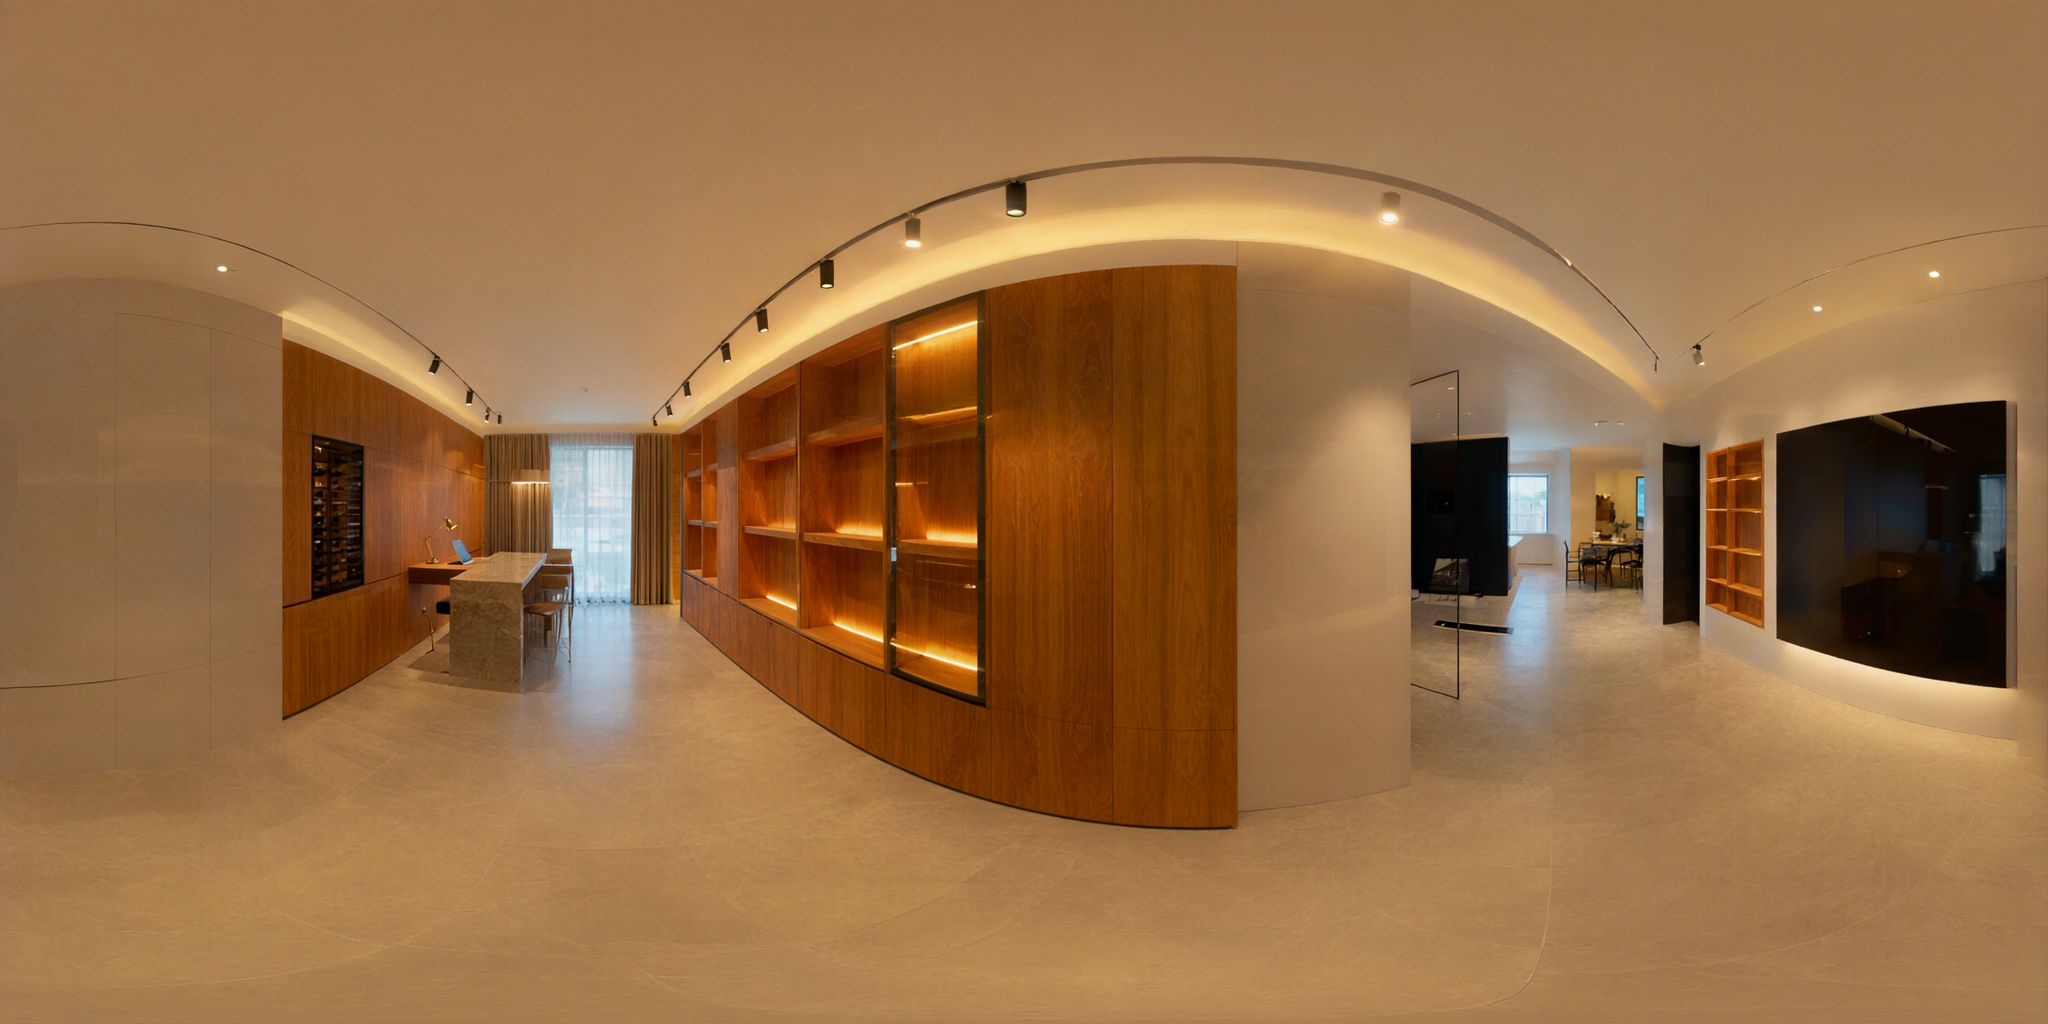
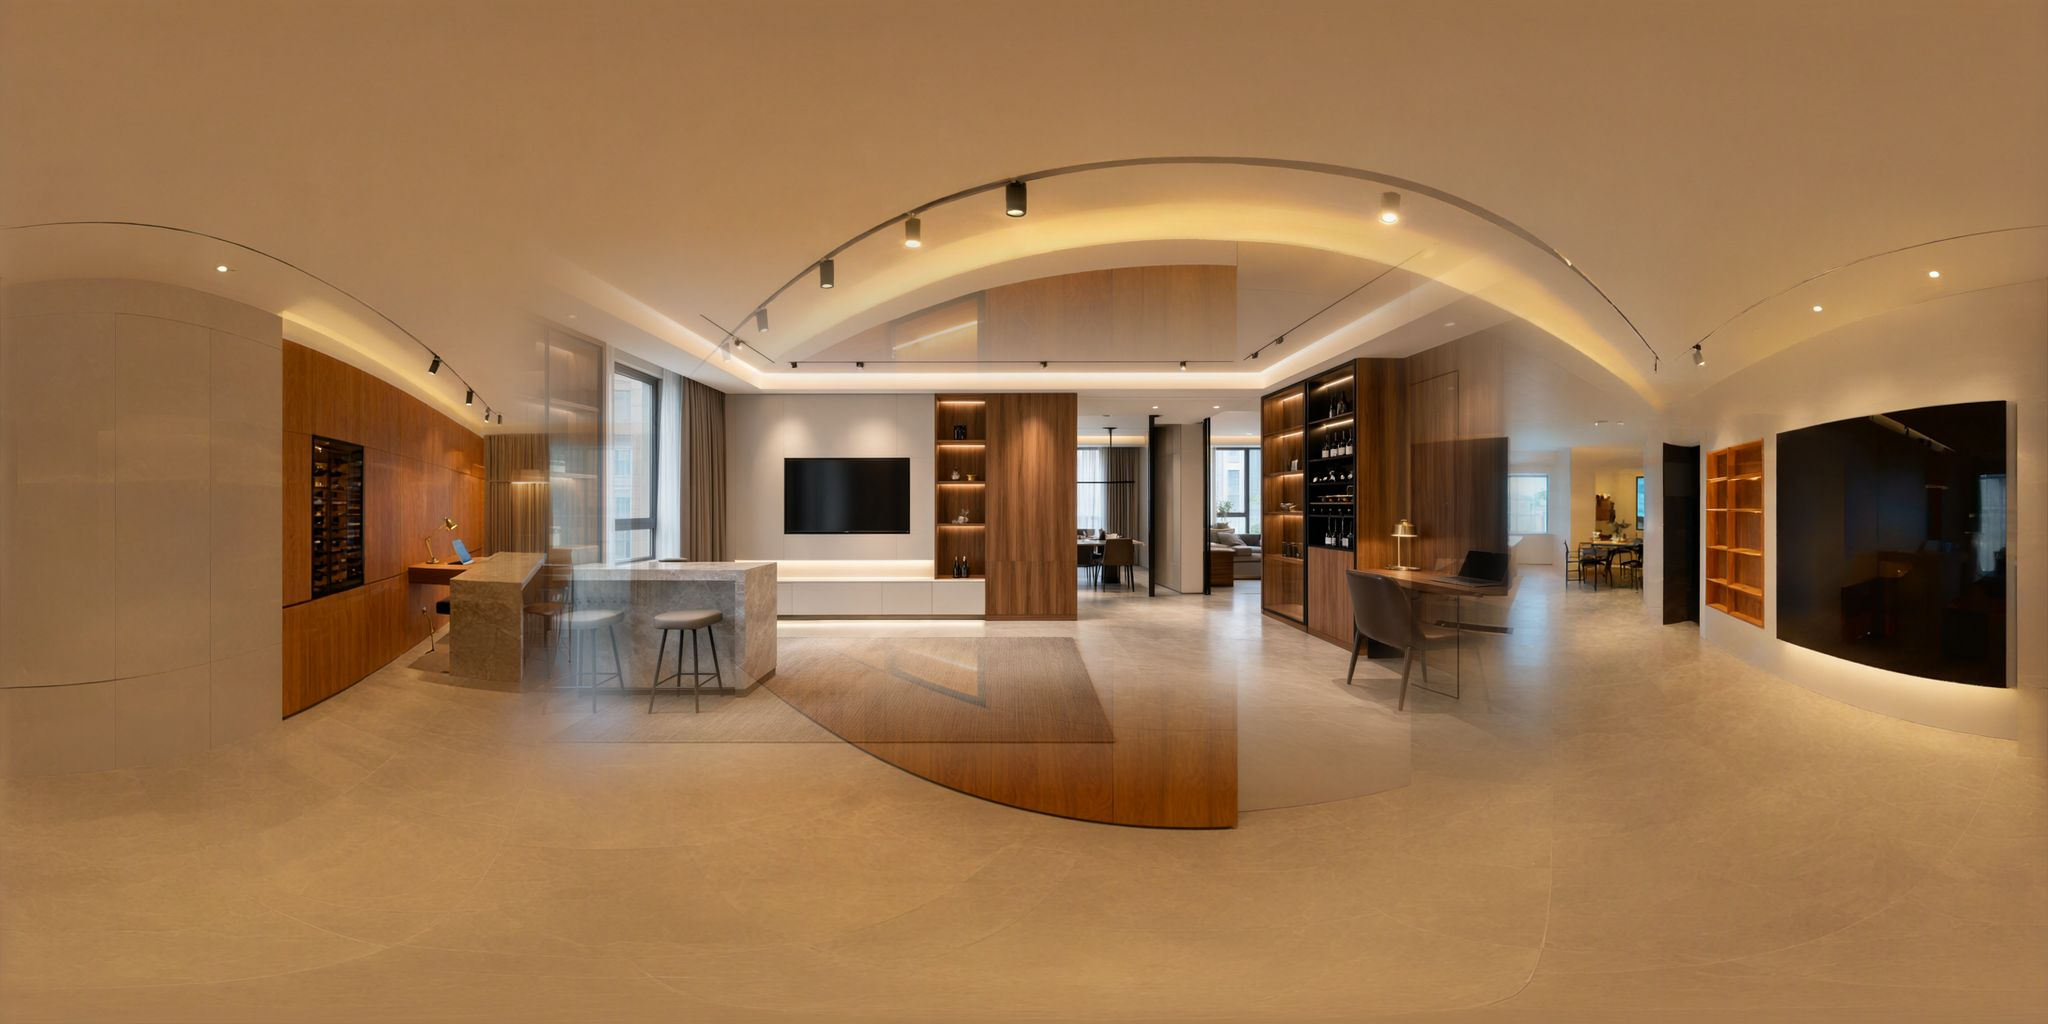
基于确认图硬贴中心+AI补四周的360全景(默认朝向0度)

Changed region(s): [[0.25, 0.25, 0.75, 0.75]]

diff --git a/index.html b/index.html
@@ -209,7 +209,7 @@
 </div>
 
 <script>
-const ROOMS = [{"file": "pano1/s01_lo.jpg", "hi": "pano1/s01.jpg", "thumb": "thumbs/s01.jpg", "label": "木饰面展示系统 / 通高窗岩板吧台 / 悬浮大屏墙 / 走廊对景 · 拖动环视", "name": "01_01_样板间展厅", "v1": "01_样板间展厅", "idx": 1, "yaw0": 0.7854}];
+const ROOMS = [{"file": "pano1/s01_lo.jpg", "hi": "pano1/s01.jpg", "thumb": "thumbs/s01.jpg", "label": "木饰面展示系统 / 通高窗岩板吧台 / 悬浮大屏墙 / 走廊对景 · 拖动环视", "name": "01_01_样板间展厅", "v1": "01_样板间展厅", "idx": 1, "yaw0": 0.0}];
 let SPOTS = {"01_01_样板间展厅": [{"kind": "lamp", "yaw": -1.22, "pitch": 0.42, "title": "灯槽", "desc": "单开间 9.0×6.5m、层高 2.75m,周圈回光槽;长墙到顶木饰面展示系统(开放格与黑框玻璃柜交替、层板灯带),端头通高窗 + 白纱帘,窗前岩板瀑布边吧台配两椅;对面墙白悬浮板挂大屏 + 贴地悬浮矮柜 + 酒格高柜;第三面墙高柜 + 书桌;一端开口通走廊,尽头黑框玻璃隔断后是餐厅对景。花色:斜晖胡桃 + 婷兰灰。"}, {"kind": "lamp", "yaw": 0.0, "pitch": 0.42, "title": "层板灯带", "desc": "单开间 9.0×6.5m、层高 2.75m,周圈回光槽;长墙到顶木饰面展示系统(开放格与黑框玻璃柜交替、层板灯带),端头通高窗 + 白纱帘,窗前岩板瀑布边吧台配两椅;对面墙白悬浮板挂大屏 + 贴地悬浮矮柜 + 酒格高柜;第三面墙高柜 + 书桌;一端开口通走廊,尽头黑框玻璃隔断后是餐厅对景。花色:斜晖胡桃 + 婷兰灰。"}, {"kind": "lamp", "yaw": 1.22, "pitch": 0.42, "title": "轨道射灯", "desc": "单开间 9.0×6.5m、层高 2.75m,周圈回光槽;长墙到顶木饰面展示系统(开放格与黑框玻璃柜交替、层板灯带),端头通高窗 + 白纱帘,窗前岩板瀑布边吧台配两椅;对面墙白悬浮板挂大屏 + 贴地悬浮矮柜 + 酒格高柜;第三面墙高柜 + 书桌;一端开口通走廊,尽头黑框玻璃隔断后是餐厅对景。花色:斜晖胡桃 + 婷兰灰。"}]};
 const ORIGIN = {"01_01_样板间展厅": "单开间 9.0×6.5m、层高 2.75m,周圈回光槽;长墙到顶木饰面展示系统(开放格与黑框玻璃柜交替、层板灯带),端头通高窗 + 白纱帘,窗前岩板瀑布边吧台配两椅;对面墙白悬浮板挂大屏 + 贴地悬浮矮柜 + 酒格高柜;第三面墙高柜 + 书桌;一端开口通走廊,尽头黑框玻璃隔断后是餐厅对景。花色:斜晖胡桃 + 婷兰灰。"};
 
